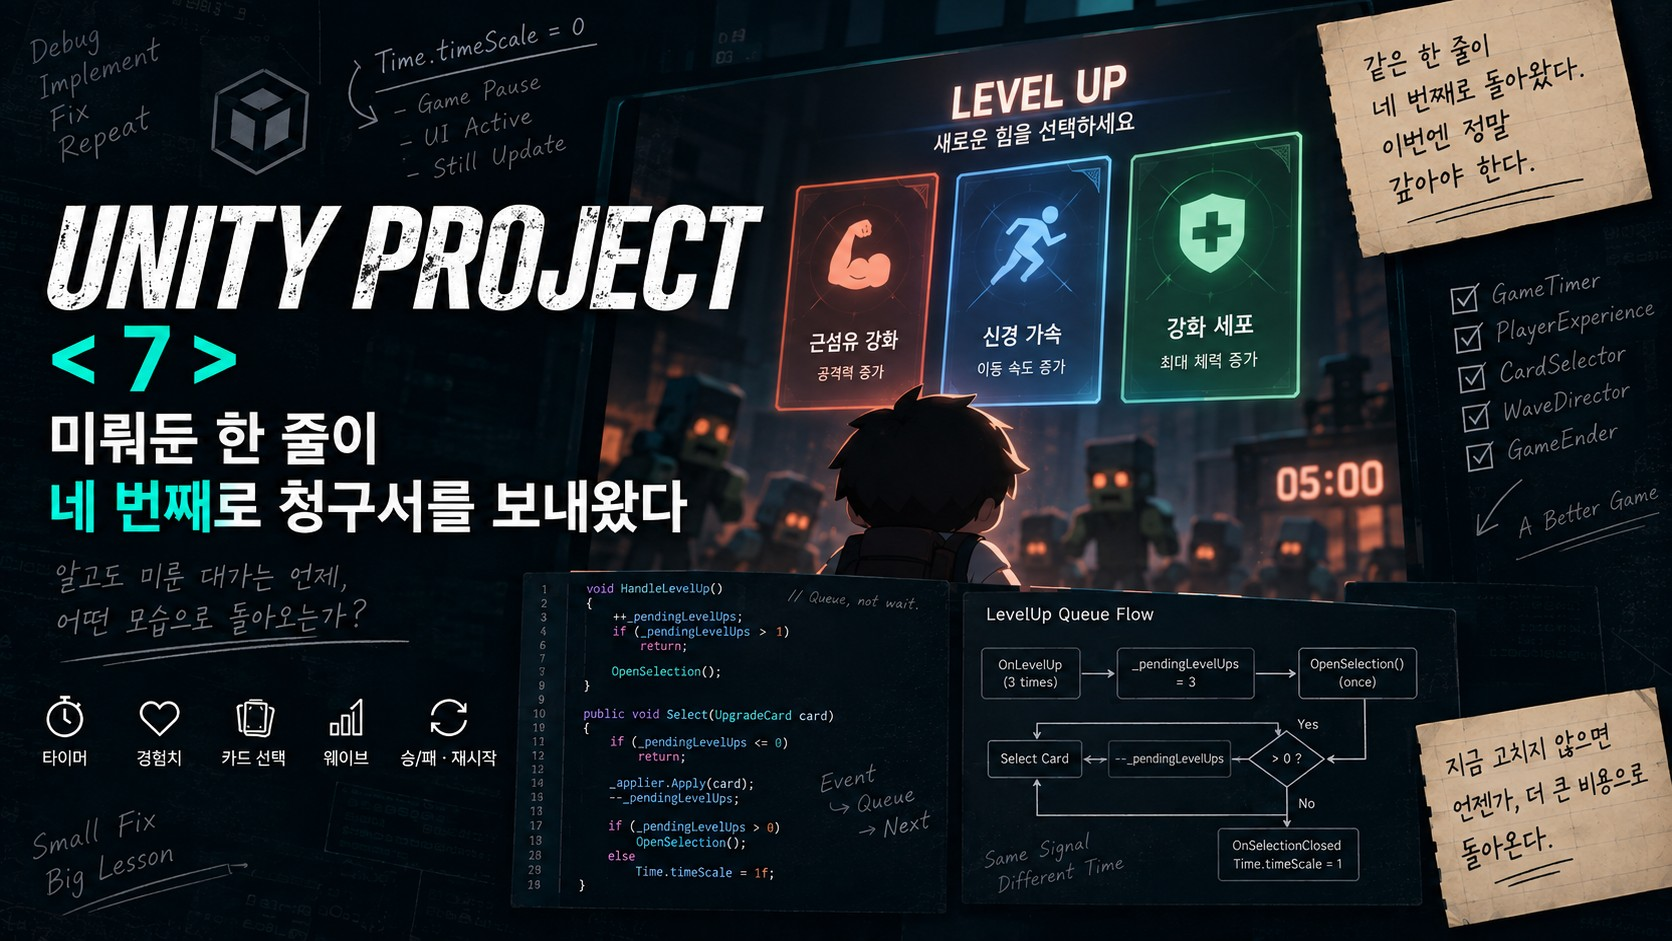
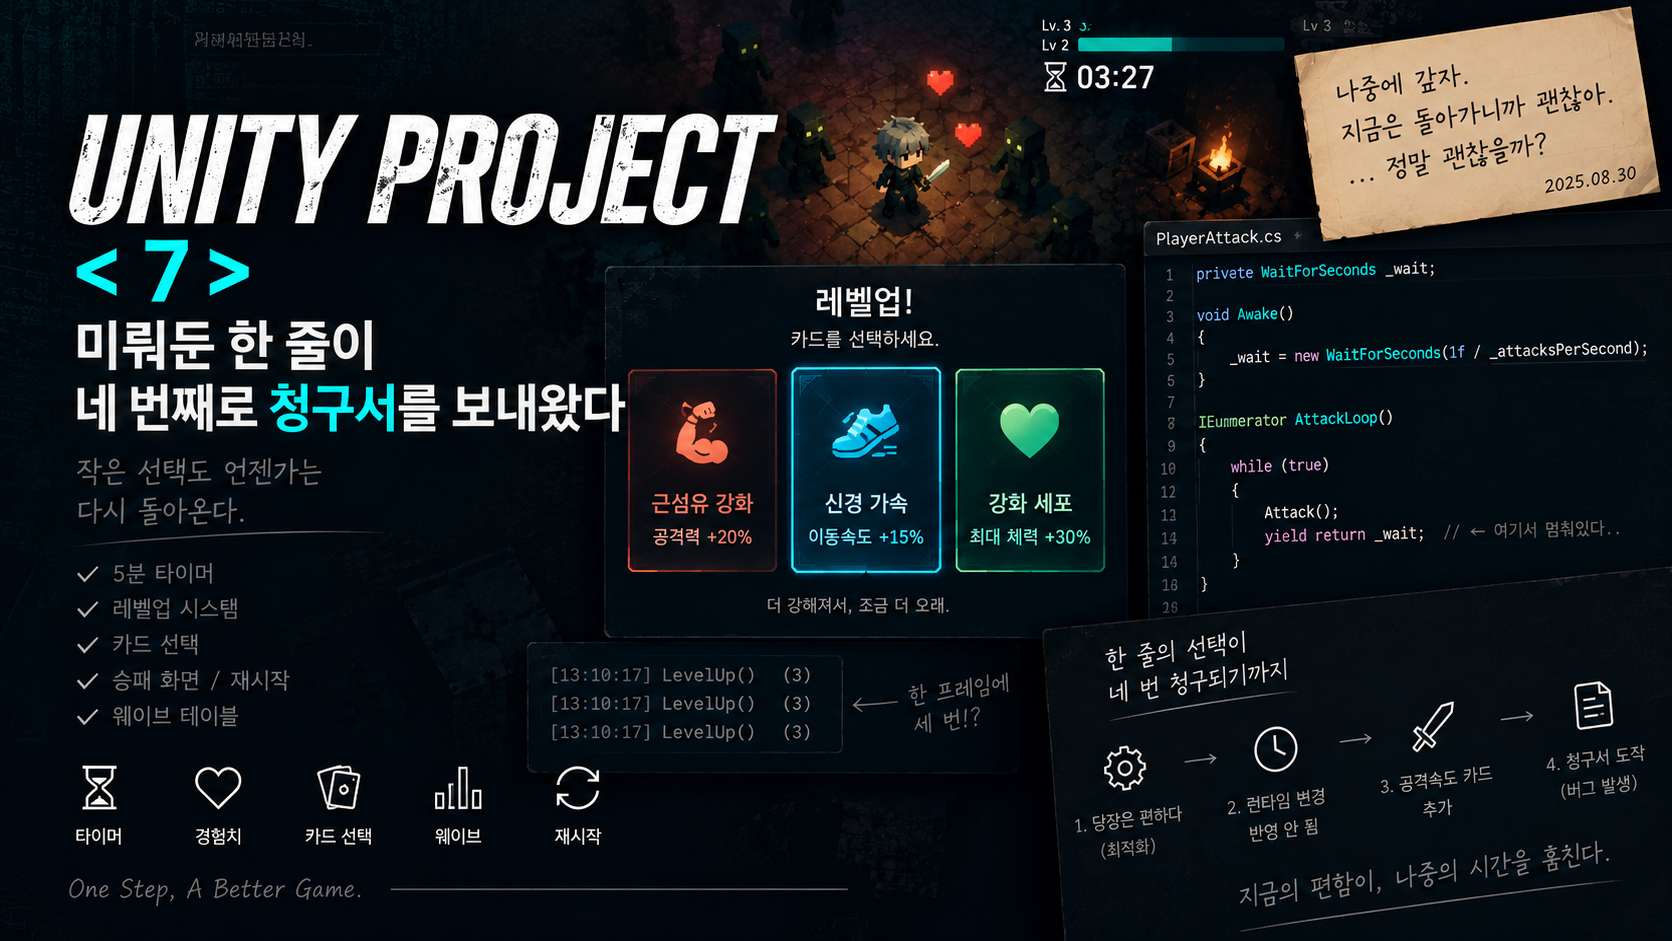
[posts] 12편 배너 적용, 미사용 배너 정리
12편에 전용 배너를 붙여 7~12편이 모두 시리즈 배너를 쓰게 한다.
어느 편도 참조하지 않게 된 42-banner.jpg를 제거한다.
(같은 화면은 58-wave-density.png로 본문에 남아 있다)

diff --git a/_posts/2026-09-05-unity-project6.md b/_posts/2026-09-05-unity-project6.md
@@ -5,7 +5,7 @@ subtitle: 방향이 틀렸을 때 그걸 알려주는 것들
 author: bbie
 categories: unity-project
 banner:
-  image: /assets/images/unity-project/42-banner.jpg
+  image: /assets/images/unity-project/75-banner.jpg
   opacity: 0.618
   background: "#000"
   height: "50vh"
